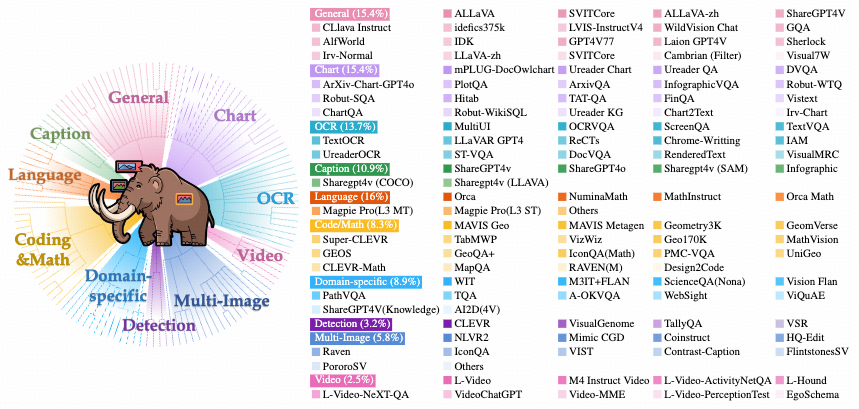
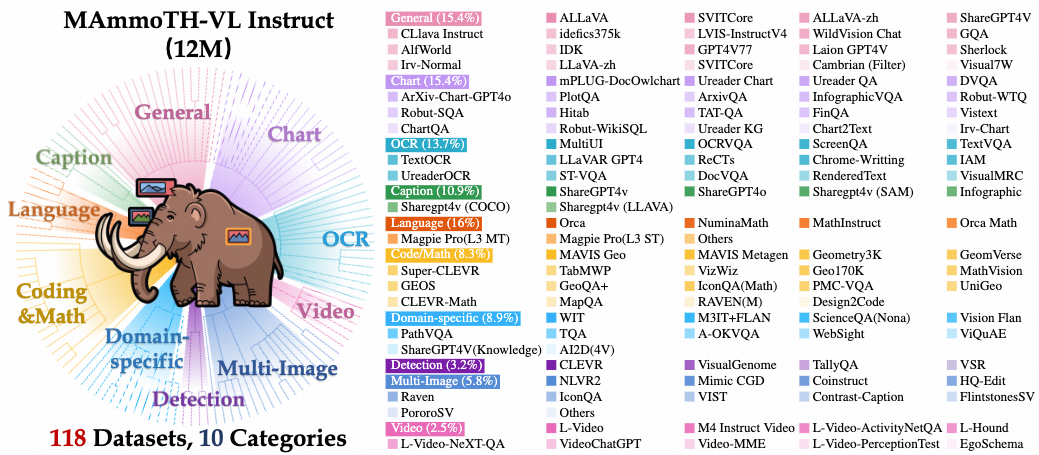
v1

diff --git a/index.html b/index.html
@@ -174,7 +174,7 @@
 
                                 <!-- Github link -->
                                 <span class="link-block">
-                      <a href="https://github.com/TIGER-AI-Lab/MAmmoTH2" target="_blank"
+                      <a href="https://github.com/MAmmoTH-VL" target="_blank"
                       class="external-link button is-normal is-rounded is-dark">
                       <span class="icon">
                         <i class="fab fa-github"></i>
@@ -213,27 +213,27 @@
                     <h2 class="title is-3">Abstract</h2>
                     <div class="content has-text-justified">
                         <p>
-                            Multimodal Large Language Models (MLLMs) have integrated modality alignment and visual instruction tuning to excel in tasks like captioning and visual question-answering. Despite their potential, MLLMs often struggle with real-world applications due to the homogeneity and simplicity of training datasets. Addressing these challenges, we propose a simple, scalable yet effective approach that leverages open-source models for synthesizing high-quality, diverse instruction training data, aligning closely with human preferences and complex real-world scenarios. We introduce the MAmmoTH-VL-12M dataset, a collection of 12 million multimodal instructions, across 12 task domains. Experimental results show that training an MLLM, MAmmoTH-VL-8B on this dataset enhances performance in various visual reasoning, OCR, chart understanding, document understanding, and interaction tasks. Our method demonstrates a cost-effective alternative for high-quality multimodal data creation in the open-source community.                        </p>
+                            Multimodal Large Language Models (MLLMs) have integrated modality alignment and visual instruction tuning to excel in tasks like captioning and visual question-answering. Despite their potential, MLLMs often struggle with real-world applications due to the homogeneity and simplicity of training datasets. Addressing these challenges, we propose a simple, scalable yet effective approach that leverages open-source models for synthesizing high-quality, diverse instruction training data, aligning closely with human preferences and complex real-world scenarios. We introduce the MAmmoTH-VL-12M dataset, a collection of 12 million multimodal instructions, across 10 task-specific categories. Experimental results show that training an MLLM, MAmmoTH-VL-8B on this dataset enhances performance in various visual reasoning, OCR, chart understanding, document understanding, and interaction tasks. Our method demonstrates a cost-effective alternative for high-quality multimodal data creation in the open-source community.                        </p>
 
 <p>
     <!-- Image1 carousel -->
         
-    <section class="hero">
+    <!-- <section class="hero">
         <div class="hero-body">
             <div class="container is-max-desktop">
                 <div class="columns is-centered">
-                    <div class="column is-four-fifths">
+                    <div class="column is-four-fifths"> -->
                         <div class="item">
-                            <img src="static/images/mammoth_vl_method.jpg" alt="Hybrid Instruction Tuning of MAmmoTH2-Plus" style="width: 100%; height: auto;" />
+                            <img src="static/images/mammoth_vl_overview.png" alt="Hybrid Instruction Tuning of MAmmoTH2-Plus" style="width: 100%; height: auto;" />
                             <h2 class="subtitle" style="font-size: 16px; text-align: center; color: #888888;font-weight: normal;">
                                 Figure 1: Overview of MAmmoTH-VL.
                             </h2>
                         </div>
-                    </div>
+                    <!-- </div>
                 </div>
             </div>
         </div>
-    </section>
+    </section> -->
     
     <!-- End image1 carousel -->
     
@@ -321,11 +321,11 @@
                         </p>
 <!-- Image3 carousel -->
     
-<section class="hero">
+<!-- <section class="hero">
     <div class="hero-body">
         <div class="container is-max-desktop">
             <div class="columns is-centered">
-                <div class="column is-four-fifths">
+                <div class="column is-four-fifths"> -->
                     <div class="item">
                         <!-- Displaying an Image of Hybrid Instruction Tuning -->
                         <img src="static/images/mammoth_vl_12M.png" alt="Hybrid Instruction Tuning of MAmmoTH2-Plus" style="width: 100%; height: auto;" />
@@ -333,11 +333,11 @@
                             Figure 2: Overview of MAmmoTH-VL-12M.
                         </h2>
                     </div>
-                </div>
+                <!-- </div>
             </div>
         </div>
     </div>
-</section>
+</section> -->
 
 
 <section class="hero">
@@ -982,23 +982,23 @@
                             To further investigate the impact of dataset size on model performance, we analyze the Stage-2 training stage for single-image. Figure 3 shows the model's overall performance across 8 benchmarks as the training dataset size increases, with each node representing 2 million data points. The results are compared against those of Qwen2-VL-8B, InternVL2-8B, and LLaVA-OneVision-8B. This trend clearly demonstrates that expanding the scale of instruction data has a significant positive effect on model performance. This observation suggests that as more diverse instruction data is introduced, the model’s ability to handle complex tasks is enhanced.
                         </p>
 
-<section class="hero">
+<!-- <section class="hero">
     <div class="hero-body">
         <div class="container is-max-desktop">
             <div class="columns is-centered">
-                <div class="column is-four-fifths">
+                <div class="column is-four-fifths"> -->
                     <div class="item">
                         <!-- Displaying an Image of Hybrid Instruction Tuning -->
-                        <img src="static/images/mammoth_scale.png" alt="Hybrid Instruction Tuning of MAmmoTH2-Plus" style="width: 100%; height: auto;" />
+                        <img src="static/images/mammoth_vl_scale.png" alt="Hybrid Instruction Tuning of MAmmoTH2-Plus" style="width: 100%; height: auto;" />
                         <h2 class="subtitle" style="font-size: 16px; text-align: center; color: #888888;font-weight: normal;">
                             Figure 3: Scaling effect of MAmmoTH-VL-8B on 8 representative datasets.
                         </h2>
                     </div>
-                </div>
+                <!-- </div>
             </div>
         </div>
     </div>
-</section>
+</section> -->
 
 
 <section class="hero">
@@ -1017,11 +1017,11 @@
                             The results in Figure 4 show that model trained on data rewritten based on 7B-similar-size model performs better in knowledge & reasoning and multi-interact & preference compared to the original data. However, its performance in chart & doc tasks is slightly worse, which may be due to the small model's inherent limitations in recognizing fine details in document-like images.
                         </p>
 
-<section class="hero">
+<!-- <section class="hero">
     <div class="hero-body">
         <div class="container is-max-desktop">
             <div class="columns is-centered">
-                <div class="column is-four-fifths">
+                <div class="column is-four-fifths"> -->
                     <div class="item">
                         <!-- Displaying an Image of Hybrid Instruction Tuning -->
                         <img src="static/images/ablation_rewrite_model.png" alt="Hybrid Instruction Tuning of MAmmoTH2-Plus" style="width: 100%; height: auto;" />
@@ -1029,11 +1029,11 @@
                             Figure 4: Performance of data rewritten by different models on three benchmark subsets.
                         </h2>
                     </div>
-                </div>
+                <!-- </div>
             </div>
         </div>
     </div>
-</section>
+</section> -->
 
 <!-- End image3 carousel -->
 
